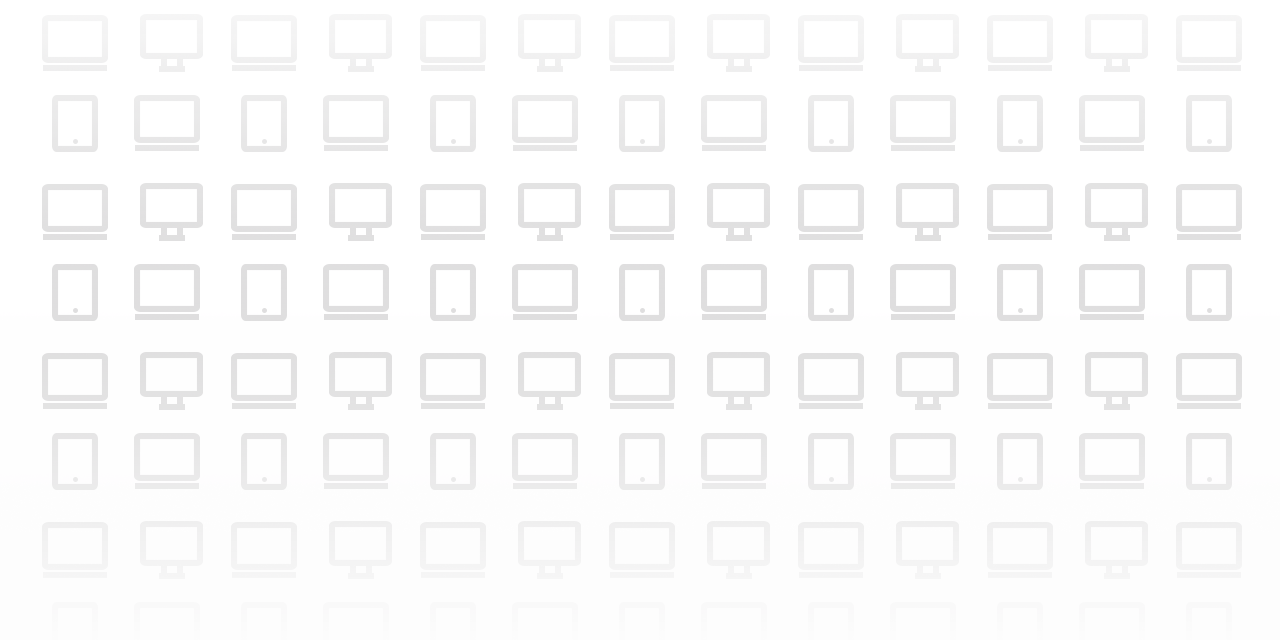
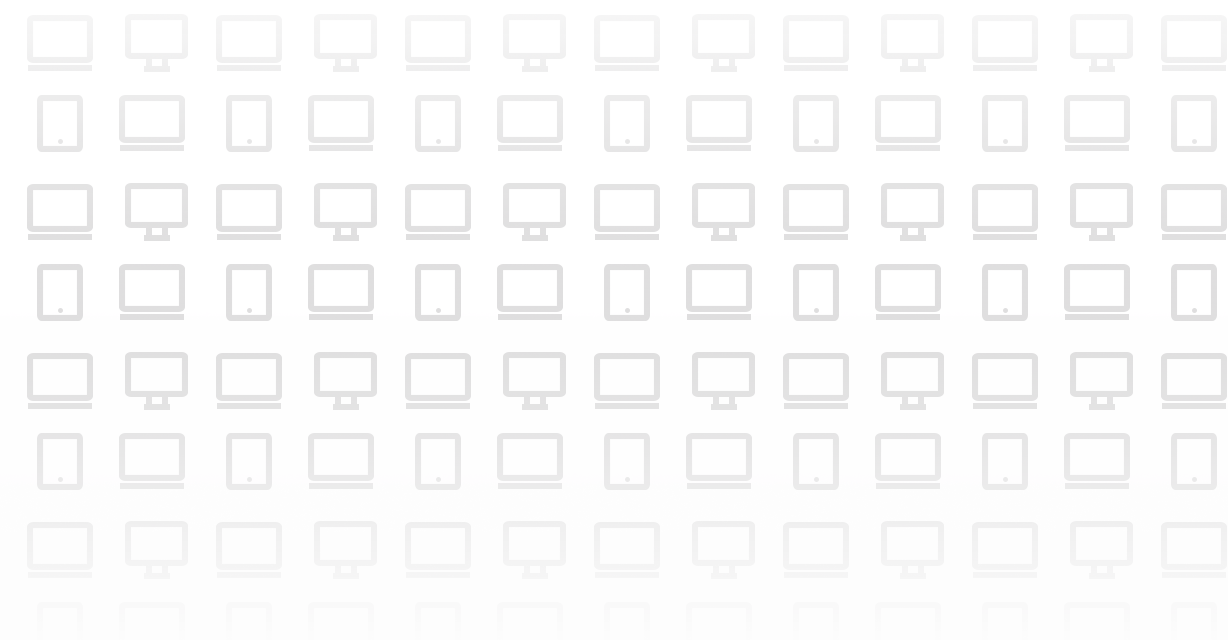
tiling background image

diff --git a/public/css/index.css b/public/css/index.css
@@ -169,7 +169,8 @@
   height: 85vh;
   width: 100vw;
   background-image: url( "../media/banner_bg.png" );
-  background-position: top  center;
+  background-position: top center;
+  background-repeat: repeat-x;
   text-align: center;
   position: relative;
 }
